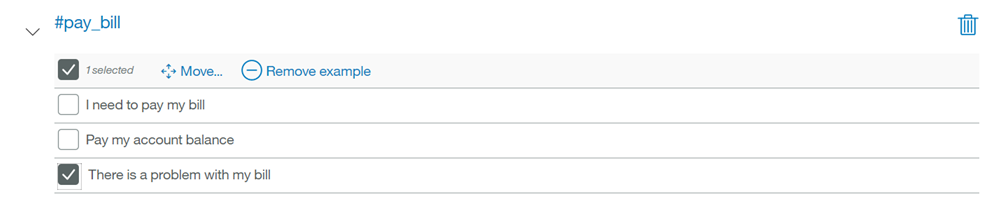
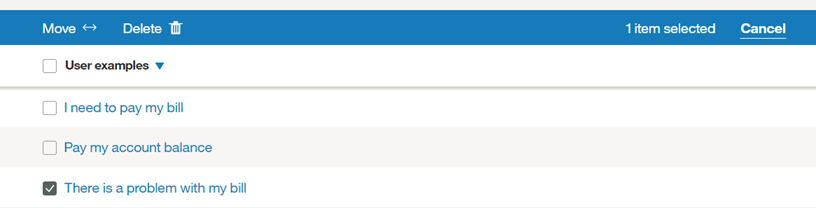
Intent/entity redesign

diff --git a/intents.md b/intents.md
@@ -2,7 +2,7 @@
 
 copyright:
   years: 2015, 2017
-lastupdated: "2017-11-27"
+lastupdated: "2017-12-05"
 
 ---
 
@@ -22,7 +22,7 @@ lastupdated: "2017-11-27"
 ***Intents*** are purposes or goals expressed in a customer's input, such as answering a question or processing a bill payment. By recognizing the intent expressed in a customer's input, the {{site.data.keyword.conversationshort}} service can choose the correct dialog flow for responding to it.
 {: shortdesc}
 
-<iframe class="embed-responsive-item" id="youtubeplayer" type="text/html" width="640" height="390" src="https://www.youtube.com/embed/VG0YykNcfv8?rel=0" frameborder="0" webkitallowfullscreen mozallowfullscreen allowfullscreen> </iframe>
+<iframe class="embed-responsive-item" id="youtubeplayer" type="text/html" width="640" height="390" src="https://www.youtube.com/embed/6HAZpBHqX8M" frameborder="0" webkitallowfullscreen mozallowfullscreen allowfullscreen> </iframe>
 
 ## Intent limits
 {: #intent-limits}
@@ -40,8 +40,10 @@ The number of intents and examples you can create depends on your {{site.data.ke
 Use the {{site.data.keyword.conversationshort}} tool to create intents.
 
 1.  In the {{site.data.keyword.conversationshort}} tool, open your workspace and then select the **Intents** tab in the navigation bar. If **Intents** is not visible, use the ![Menu](images/Menu_16.png) menu to open the page.
+
 1.  Select **Create new**.
-1.  In the **Intent name** field, type a descriptive name for the intent.
+
+1.  In the **Intent name** field, type a name for the intent.
     - The intent name can contain letters (in Unicode), numbers, underscores, hyphens, and periods.
     - The name cannot consist of `..` or any other string of only periods.
     - Intent names cannot contain spaces and must not exceed 128 characters. The following are examples of intent names:
@@ -52,19 +54,27 @@ Use the {{site.data.keyword.conversationshort}} tool to create intents.
     The tooling automatically includes the `#` character in the intent names, so you do not have to add one.
     {: tip}
 
-    You can select **Create** to save your intent name without adding examples. You can also select the user example field, or use the tab key to move forward, and add examples.
+    Add a description of the intent in the **Description** field.
 
-1.  In the **User example** field, type the text of a user example for the intent. An example can be any string up to 1024 characters in length. The following might be examples for the `#pay_bill` intent:
+1.  Select **Create intent** to save your intent name.
+
+    ![Screen capture showing new intent definition](images/create_intent.png)
+
+1.  Next, in the **Add user examples** field, type the text of a user example for the intent. An example can be any string up to 1024 characters in length. The following might be examples for the `#pay_bill` intent:
     - `I need to pay my bill.`
     - `Pay my account balance`
     - `make a payment`
 
-    *Referencing entities and synonyms as intent examples* - If you have defined or plan to define entities that correspond to this intent, refer to the entities or their associated synonyms in some of the examples. Doing so helps to establish a relationship between the intent and entities.
+    **Referencing entities and synonyms as intent examples**
+
+    If you have defined or plan to define entities that correspond to this intent, refer to the entities or their associated synonyms in some of the examples. Doing so helps to establish a relationship between the intent and entities.
 
     ![Screen capture showing intent definition](images/define_intent.png)
     {: #entity-as-example}
 
-    *Directly referencing an @Entity as an intent example* - You may also choose to directly reference entities in your intent examples. For instance, say you have an entity called `@PhoneModelName`, which contains values *Galaxy S8*, *Moto Z2*, *LG G6*, and *Google Pixel 2*. When you create an intent, for example `#order_phone`, you could then provide training data as follows:
+    **Directly referencing an @Entity as an intent example**
+
+    You may also choose to directly reference entities in your intent examples. For instance, say you have an entity called `@PhoneModelName`, which contains values *Galaxy S8*, *Moto Z2*, *LG G6*, and *Google Pixel 2*. When you create an intent, for example `#order_phone`, you could then provide training data as follows:
     - Can I get a `@PhoneModelName`?
     - Help me order a `@PhoneModelName`.
     - Is the `@PhoneModelName` in stock?
@@ -72,19 +82,21 @@ Use the {{site.data.keyword.conversationshort}} tool to create intents.
 
     ![Screen capture showing intent definition](images/define_intent_entity.png)
 
-    **Note**: Currently, you can only directly reference closed entities that you define. You cannot directly reference [pattern entities](entities.html#pattern-entities) or [system entities](system-entities.html).
+    **Note**: Currently, you can only directly reference closed entities that you define (pattern values will be ignored). You cannot use [system entities](system-entities.html).
 
     If you choose to reference an entity as an intent example (for example, `@PhoneModelName`) *anywhere* in your training data it cancels out the value of using a direct reference (for example, *Galaxy S8*) in an intent example anywhere else. All intents will then use the entity-as-an-intent-example approach; you cannot select this approach for a specific intent only.
 
     In practice, this means that if you have previously trained most of your intents based on direct references (*Galaxy S8*), and you now use entity references (`@PhoneModelName`) for just one intent, that would impact all your previous training. If you do choose to use `@Entity` references, you need to be careful to replace all previous direct references with `@Entity` references.
 
-    **Note**: Defining one example intent with an `@Entity` that has 10 values defined for it **does not** equate to specifying that example intent 10 times. The {{site.data.keyword.conversationshort}} does not give that much weight to that one example intent syntax.
+    **Note**: Defining one example intent with an `@Entity` that has 10 values defined for it **does not** equate to specifying that example intent 10 times. The {{site.data.keyword.conversationshort}} service does not give that much weight to that one example intent syntax.
 
     **Important**: Intent names and example text can be exposed in URLs when an application interacts with the service. Do not include sensitive or personal information in these artifacts.
 
-    Press Enter or select **+** to save the example.
+    Press **Add example** to save the example.
+
 1.  Repeat the same process to add more examples. You can tab between each example. Provide at least 5 examples for each intent. The more examples you provide, the more accurate your application can be.
-1.  When you have finished adding examples, select **Done** to finish creating the intent.
+
+1.  When you have finished adding examples, select ![Close arrow](images/close_arrow.png) to finish creating the intent.
 
 ### Results
 
@@ -101,9 +113,9 @@ You can select any intent in the list to open it for editing. You can make the f
 
 You can tab from the intent name to each example, editing the examples if you choose.
 
-To move an example, select the example by selecting the check box and then select **Move to**.
+To move or delete an example, select the example by selecting the check box and then select **Move** or **Delete**.
 
-  ![Screen capture showing how to move an example](images/move_example.png)
+  ![Screen capture showing how to move or delete an example](images/move_example.png)
 
 ## Importing intents and examples
 
@@ -131,25 +143,24 @@ If you have a large number of intents and examples, you might find it easier to 
 
 1.  In the {{site.data.keyword.conversationshort}} tool, open your workspace and then select the **Intents** tab in the navigation bar. If **Intents** is not visible, use the ![Menu](images/Menu_16.png) menu to open the page.
 
-1.  Select ![Import](images/importGA.png) and then drag a file, or browse to select a file from your computer. The file is validated and imported, and the system begins to train itself on the new data.
+1.  Select the *Import* icon ![Import icon](images/ImportGA.png). Then, drag a file or browse to select a file from your computer. The file is validated and imported, and the system begins to train itself on the new data.
+
+    ![Import option](images/ImportIntent.png)
 
     > **Important:** The maximum CSV file size is 10MB. If your CSV file is larger, consider splitting it into multiple files and importing them separately.
 
 ### Results
 
-You can view the imported intents and the corresponding examples on the Intents tab. You might need to refresh the page in order to see the new intents and examples.
+You can view the imported intents and the corresponding examples on the **Intents** tab. You might need to refresh the page in order to see the new intents and examples.
 
 ## Exporting intents
 {: #export_intents}
 
-You can export a number of intents to a CSV file, so you can then import and reuse them for another Conversation application.
+You can export a number of intents to a CSV file, so you can then import and reuse them for another {{site.data.keyword.conversationshort}} application.
 
-1.  On the Intents tab, select ![Export icon](images/ExportIcon.png)
+1.  On the Intents tab, select the intents you want from the list and choose *Export*.
 
-    ![Export and Delete options](images/ExportIntent1.png)
-
-1.  Select the intents you want, and click the **Export** button.
-    ![Entity selection for Export and Delete buttons](images/ExportIntent2.png)
+    ![Export option](images/ExportIntent.png)
 
 ## Deleting intents
 {: #delete_intents}
@@ -158,11 +169,9 @@ You can select a number of intents for deletion.
 
 **IMPORTANT**: By deleting intents you are also deleting all associated examples, and these items cannot be retrieved later. All dialog nodes that reference these intents must be updated manually to no longer reference the deleted content.
 
-1.  On the Intents tab, select ![Delete icon](images/DeleteIcon.png)
+1.  On the Intents tab, select the intents you want from the list and choose *Delete*.
 
-    ![Export and Delete options](images/ExportIntent3.png)
-
-1.  Select the intents you want to delete, and click the **Delete** button. **Note**: The delete feature supports bulk delete of intents.
+    ![Delete option](images/DeleteIntent.png)
 
 ## Testing your intents
 {: #testing-your-intents}
@@ -202,14 +211,14 @@ As of February 2017, there is a new algorithm for scoring intent confidence and 
 
 ### Absolute scoring
 
-We now score each intent’s confidence on its own, not in relation to other intents. This allows the flexibility to have multiple intents returned. It also means the system may not return an intent at all. If the system has low confidence (less than .2) that any intents relate to the user’s input, the system will not return an intent.
+The {{site.data.keyword.conversationshort}} service now scores each intent’s confidence on its own, not in relation to other intents. This allows the flexibility to have multiple intents returned. It also means the system may not return an intent at all. If the system has low confidence (less than .2) that any intents relate to the user’s input, the system will not return an intent.
 
 As intent confidence scores change, your dialogs may need restructuring. For example, if you conditioned your dialog with an intent that now has low confidence, the system’s response will no longer be correct.
 
 ### Mark as irrelevant
 {: #mark-irrelevant}
 
-You can refer to [supported languages](lang-support.html) for the availability of this feature.
+Refer to [supported languages](lang-support.html) for the availability of this feature.
 
 After you upgrade your workspace, you can [test input](#testing-your-intents) in the *Try it out* pane to see the changes. You can use **Mark as irrelevant** to indicate that the input is not related to your application.
 

diff --git a/entities.md b/entities.md
@@ -2,7 +2,7 @@
 
 copyright:
   years: 2015, 2017
-lastupdated: "2017-11-27"
+lastupdated: "2017-12-05"
 
 ---
 
@@ -21,7 +21,7 @@ lastupdated: "2017-11-27"
 
 ***Entities*** represent a class of object or a data type that is relevant to a user's purpose. By recognizing the entities that are mentioned in the user's input, the {{site.data.keyword.conversationshort}} service can choose the specific actions to take to fulfill an intent.
 
-<iframe class="embed-responsive-item" id="youtubeplayer" type="text/html" width="640" height="390" src="https://www.youtube.com/embed/oSNF-QCbuDc?rel=0" frameborder="0" webkitallowfullscreen mozallowfullscreen allowfullscreen> </iframe>
+<iframe class="embed-responsive-item" id="youtubeplayer" type="text/html" width="640" height="390" src="https://www.youtube.com/embed/kAZ9m-oCKxM" frameborder="0" webkitallowfullscreen mozallowfullscreen allowfullscreen> </iframe>
 
 ## Entity limits
 {: #entity-limits}
@@ -41,10 +41,12 @@ System entities that you enable for use count toward your plan usage totals.
 Use the {{site.data.keyword.conversationshort}} tool to create entities.
 
 1.  In the {{site.data.keyword.conversationshort}} tool, open your workspace and then click the **Entities** tab. If **Entities** is not visible, use the ![Menu](images/Menu_16.png) menu to open the page.
-1.  Click **Create new**.
+
+1.  Click **Add entity**.
 
     You can also click **Use System Entities** to select from a list of common entities, provided by {{site.data.keyword.IBM_notm}}, that can be applied to any use case. See [Enabling system entities](#enable_system_entities) for more detail.
-1.  In the **Add the entity name** field, type a descriptive name for the entity.
+
+1.  In the **Entity name** field, type a descriptive name for the entity.
 
     The entity name can contain letters (in Unicode), numbers, underscores, and hyphens. For example:
     - `@location`
@@ -53,6 +55,14 @@ Use the {{site.data.keyword.conversationshort}} tool to create entities.
 
     Don't include the `@` character in the entity names when you create them in the {{site.data.keyword.conversationshort}} tool. Entity names can't contain spaces or be longer than 64 characters. And entity names can't begin with the string `sys-`, which is reserved for system entities.
     {: tip}
+
+1.  Select **Create entity**.
+
+    ![Screen capture of creating an entity](images/create_entity.png)
+
+1.  In the **Value name** field, type the text of a possible value for the entity and hit the `Enter` key. An entity value can be any string up to 64 characters in length.
+
+    > **Important:** Don't include sensitive or personal information in entity names or values. The names and values can be exposed in URLs in an app.
 
 1.  For **Fuzzy Matching**, click the button to select either on or off; fuzzy matching is off by default. This feature is available for languages noted in the [Supported languages](lang-support.html) topic.
  {: #fuzzy-matching}
@@ -63,23 +73,21 @@ Use the {{site.data.keyword.conversationshort}} tool to create entities.
     - *Partial match* - With partial matching, the feature automatically suggests substring-based synonyms present in the user-defined entities, and assigns a lower confidence score as compared to the exact entity match.
 
     **Note** - For English, fuzzy matching prevents the capturing of some common, valid English words as fuzzy matches for a given entity. Currently, this feature uses only standard English dictionary words, and does not use synonyms defined by the user.
-1.  In the **Value** field, type the text of a possible value for the entity. An entity value can be any string up to 64 characters in length.
 
-    > **Important:** Don't include sensitive or personal information in entity names or values. The names and values can be exposed in URLs in an app.
-
-    Once you have entered an entity value, you can then add any synonyms, or define specific patterns, for that entity value by selecting either `Synonyms` or `Patterns` from the *Type* drop-down menu.
+1.  Once you have entered a value name, you can then add any synonyms, or define specific patterns, for that entity value by selecting either `Synonyms` or `Patterns` from the *Type* drop-down menu.
 
     ![Type selector for Value](images/value_type.png)
 
     > **Note:** You can add *either* synonyms or patterns for a single entity value, you cannot add both.
 
-1.  In the **Synonyms** field, type any synonyms for the entity value. A synonym can be any string up to 64 characters in length.
+1.  In the **Add synonyms** field, type any synonyms for the entity value. A synonym can be any string up to 64 characters in length.
 
     ![Screen capture of defining an entity](images/define_entity.png)
+
 1.  The **Patterns** field lets you define specific patterns for an entity value. A pattern **must** be entered as a regular expression in the field.
-  {: #pattern-entities}
 
     ![Screen capture of defining a pattern entity](images/patternents1.png)
+    {: #pattern-entities}
 
     As in this example, for entity *ContactInfo*, the patterns for phone, email, and website values can be defined as follows:
     - Phone
@@ -109,8 +117,9 @@ Use the {{site.data.keyword.conversationshort}} tool to create entities.
 
     The regular expression engine is loosely based on the Java regular expression engine. The {{site.data.keyword.conversationshort}} service will produce an error if you try to upload an unsupported pattern, either via the API or from within the {{site.data.keyword.conversationshort}} service Tooling UI.
 
-1.  Click **+** and repeat the process to add more entity values.
-1.  When you are finished adding entity values, click **Done**.
+1.  Click **Add value** and repeat the process to add more entity values.
+
+1.  When you are finished adding entity values, select ![Close arrow](images/close_arrow.png) to finish creating the entity.
 
 ### Results
 
@@ -123,8 +132,6 @@ You can click any entity in the list to open it for editing. You can rename or d
 ## Importing entities
 
 If you have a large number of entities, you might find it easier to import them from a comma-separated value (CSV) file than to define them one by one in the {{site.data.keyword.conversationshort}} tool.
-
-**Note:** Importing a CSV file does not currently support patterns.
 
 1.  Collect the entities into a CSV file, or export them from a spreadsheet to a CSV file. The required format for each line in the file is as follows:
 
@@ -151,8 +158,20 @@ If you have a large number of entities, you might find it easier to import them 
     ```
     {: screen}
 
+    Importing a CSV file also supports patterns. Any string wrapped with `/` will be considered a pattern (as opposed to a synonym).
+
+    ```
+    ContactInfo,localPhone,/(\d{3})-(\d{4})/
+    ContactInfo,fullUSphone,/(\d{3})-(\d{3})-(\d{4})/
+    ContactInfo,internationalPhone,/^(\(?\+?[0-9]*\)?)?[0-9_\- \(\)]*$/
+    ContactInfo,email,/\b[A-Za-z0-9._%+-]+@[A-Za-z0-9.-]+\.[A-Za-z]{2,}\b/
+    ContactInfo,website,/(https?:\/\/)?([\da-z\.-]+)\.([a-z\.]{2,6})([\/\w \.-]*)*\/?$/
+    ```
+    {: screen}
+
     Save the CSV file with UTF-8 encoding and no byte order mark (BOM). The maximum CSV file size is 10MB. If your CSV file is larger, consider splitting it into multiple files and importing them separately.  In the {{site.data.keyword.conversationshort}} tool, open your workspace and then click the **Entities** tab.
     {: tip}
+
 1.  Click ![Import](images/importGA.png) and then drag a file, or browse to select a file from your computer. The file is validated and imported, and the system begins to train itself on the new data.
 
 ### Results
@@ -162,17 +181,14 @@ You can view the imported entities on the Entities tab. You might need to refres
 ## Exporting entities
 {: #export_entities}
 
-You can export a number of entities to a CSV file, so you can then import and reuse them for another Conversation application.
+You can export a number of entities to a CSV file, so you can then import and reuse them for another {{site.data.keyword.conversationshort}} application.
 
-**Note:** Exporting a CSV file does not currently support patterns.
+Exporting a CSV file supports patterns. Any string wrapped with `/` will be considered a pattern (as opposed to a synonym).
+{: tip}
 
-1.  On the Entities tab, select ![Export icon](images/ExportIcon.png)
+1.  Select the entities you want, then select **Export**.
 
-    ![Export and Delete options](images/ExportEntity1.png)
-
-1.  Select the entities you want, and click the **Export** button.
-
-    ![Entity selection for Export and Delete buttons](images/ExportEntity2.png)
+    ![Export entity button](images/ExportEntity.png)
 
 ## Deleting entities
 {: #delete_entities}
@@ -181,11 +197,9 @@ You can select a number of entities for deletion.
 
 **IMPORTANT**: By deleting entities you are also deleting all associated values, synonyms, or patterns, and these items cannot be retrieved later. All dialog nodes that reference these entities or values must be updated manually to no longer reference the deleted content.
 
-1.  On the Entities tab, select ![Delete icon](images/DeleteIcon.png)
+1.  Select the entities you want, then select **Delete**.
 
-    ![Export and Delete options](images/DeleteEntity.png)
-
-1.  Select the entities you want to delete, and click the **Delete** button. **Note**: The delete feature supports bulk delete of entities.
+    ![Delete entity button](images/DeleteEntity.png)
 
 ## Enabling system entities
 {: #enable_system_entities}
@@ -200,14 +214,11 @@ System entities are centrally maintained, so any updates are available automatic
 
     ![Screen capture of "System entities" tab](images/system_entities_1.png)
 
-    If you haven't created any entities, click **Use system entities**.
-
-    ![Screen capture of "Use system entities" button](images/system_entities_2.png)
-
 1.  Browse through the list of system entities to choose the ones that are useful for your application.
     - To see more information about a system entity, including examples of matching input, click the entity in the list.
     - For details about the available system entities, see [System entities](system-entities.html).
-1.  Click the toggle switch next to a system entity to enable or disable it. You can also enable or disable all system entities by clicking the **All toggle** switch.
+
+1.  Click the toggle switch next to a system entity to enable or disable it. You can also enable or disable all system entities by clicking the **All toggle** switch at the top of the list.
 
 ### Results
 

diff --git a/intents-entities.md b/intents-entities.md
@@ -2,7 +2,7 @@
 
 copyright:
   years: 2015, 2017
-lastupdated: "2017-11-27"
+lastupdated: "2017-12-05"
 
 ---
 
@@ -33,6 +33,7 @@ As an example, suppose you want to create a cognitive car dashboard application 
     - `Headlights off`
     - `Turn the radio off`
     - `Stop the air conditioner`
+
 1.  Once you have a list of examples, sort them into categories based on the capabilities you want your application to support; these categories represent the intents you will define, while the examples will help your application to identify those intents in new input.
 
     Do not make your intents too similar. Similar intents can be difficult for the {{site.data.keyword.conversationshort}} service to distinguish. If you find that you have several intents that are close in meaning, consider whether you could combine them into a single intent, and then use entities to provide multiple possible responses for that intent.
@@ -41,6 +42,7 @@ As an example, suppose you want to create a cognitive car dashboard application 
     Since the previous examples all represent the same intent (to turn something off), you might call this category `#turn_off`.
     Remember that a customer's input does not have to be an exact match for any of your examples; intents are recognized using natural-language processing.
     {: tip}
+
 1.  You would then use an entity to represent what the user wants to turn off. To do this, you might create an entity called `@accessory`, and give it the following possible values:
 
     - `headlights`
@@ -51,4 +53,5 @@ As an example, suppose you want to create a cognitive car dashboard application 
 1.  When the user's input is received, the conversation recognizes both intents and entities. Your dialog flow can then use these to provide the best answer. You should only create an entity for something that matters in terms of changing the way the application responds to an intent.
     In addition to the entities you define, the service provides a set of system entities that are already defined and available for you to use. For more information, see [Enabling system entities](entities.html#enable_system_entities).
     {: tip}
+
 1.  Continue to refine your intents, entities, and examples as needed. Do not think of your set of intents and entities as finished products. It is likely that when you [build your dialogs](dialog-build.html), you will identify additional intents and entities that you need to add. You can also continue to gather input from new customers, and use it to add new examples; this iterative process improves your application's ability to recognize intents and entities accurately.

diff --git a/release-notes.md b/release-notes.md
@@ -2,7 +2,7 @@
 
 copyright:
   years: 2015, 2017
-lastupdated: "2017-11-30"
+lastupdated: "2017-12-05"
 
 ---
 
@@ -47,6 +47,11 @@ Existing models that you have trained will not be immediately impacted, but expi
 {: #change-log}
 
 The following new features and changes to the service are available.
+
+### 5 December 2017
+{: #5December2017}
+
+- **Redesigned UI for Intents and Entities** - The `Intents` and `Entities` tabs have been redesigned to provide an easier, more efficient workflow when creating and editing entities and intents. See [Defining intents](intents.html#defining-intents) and [Defining entities](entities.html#defining-entities) for information about working with these tabs.
 
 ### 30 November 2017
 {: #30November2017}
